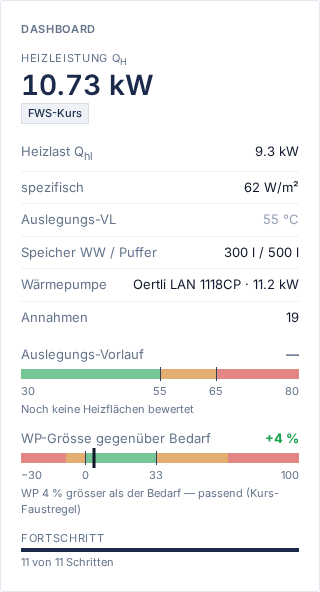
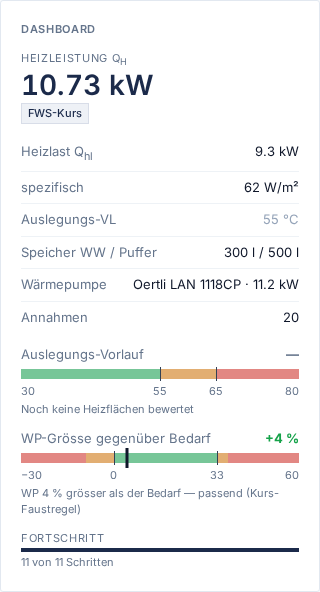
Heizlast Session 6: Fachentscheide θe ≤ −8 °C, WP-Skala gelb bis +37 %, Standard-VL je System
Claude-Session: https://claude.ai/code/session_01LwubnpfjYyW4yBhKztMVqy

diff --git a/heizlast/src/kern/berechne.ts b/heizlast/src/kern/berechne.ts
@@ -37,7 +37,7 @@ import { kategorieVon, waermeabgabe } from './waermeabgabe';
 import type { LeistungszuschlagErgebnis, WarmwasserEingabe, WarmwasserErgebnis } from './warmwasser';
 import { leistungszuschlagWarmwasser, warmwasserBedarf } from './warmwasser';
 import type { Hinweis, Wert } from './wert';
-import { berechnet, fallback, fmt, istAnnahme } from './wert';
+import { berechnet, fallback, fmt, istAnnahme, tabelle } from './wert';
 import type { SperrzeitErgebnis } from './zuschlaege';
 import { auslegungsleistung, sperrzeitZuschlag, zusatzleistung } from './zuschlaege';
 
@@ -83,6 +83,8 @@ export interface Gegenprobe {
 export interface Ergebnis {
   methode: State['methode'];
   klima: KlimaErgebnis | null;
+  /** Massgebende Auslegungs-Aussentemperatur (SIA 2028 mit Höhenkorrektur bzw. Eingabe, Thermowerk-Regel ≤ −8 °C). */
+  thetaE: Wert | null;
   /** Energiebezugsfläche (manuell oder aus Räumen) — eine Quelle für beide Modi. */
   ebf: Wert | null;
   heizlast: {
@@ -243,7 +245,20 @@ function fwsRechnen(s: State, daten: Datensatz, klima: KlimaErgebnis | null, ebf
   return { fws: e ? heizlastFws(e, daten.fws) : null, wwBisher, fehlend };
 }
 
-function raumweiseRechnen(s: State, daten: Datensatz, klima: KlimaErgebnis | null, hinweise: Hinweis[]): { huelle: HuelleErgebnis | null; raumweise: RaumweiseErgebnis | null; fehlend: Omit<Fehlend, 'schritt'>[] } {
+/**
+ * Auslegungs-Aussentemperatur mit Thermowerk-Regel (Fachentscheid Daniel 29.10.): nie wärmer als
+ * klimastationen.json `auslegungsregel.thetaEMaxC` (−8 °C). Kältere Stations-/Eingabewerte bleiben.
+ */
+export function thetaEAuslegung(klima: KlimaErgebnis | null, daten: Datensatz): { thetaE: Wert | null; hinweise: Hinweis[] } {
+  const t = klima?.thetaE ?? null;
+  if (!t) return { thetaE: null, hinweise: [] };
+  const max = daten.klima.auslegungsregel.thetaEMaxC;
+  if (t.wert <= max) return { thetaE: t, hinweise: [] };
+  const thetaE = tabelle(max, '°C', `Auslegung ${fmt(max, 0)} °C statt ${fmt(t.wert, 0)} °C (${t.begruendung}) — Thermowerk-Regel: θe nie wärmer als ${fmt(max, 0)} °C`, 'Fachentscheid Thermowerk (Daniel 29.10.2026), klimastationen.json auslegungsregel', { stufe: 'thermowerkRegel' });
+  return { thetaE, hinweise: [{ stufe: 'info', code: 'klima.thermowerkRegel', text: `Auslegungs-Aussentemperatur ${fmt(t.wert, 0)} °C ist wärmer als die Thermowerk-Regel — gerechnet wird mit ${fmt(max, 0)} °C.`, pfad: 'gebaeude.standort' }] };
+}
+
+function raumweiseRechnen(s: State, daten: Datensatz, klima: KlimaErgebnis | null, thetaE: Wert | null, hinweise: Hinweis[]): { huelle: HuelleErgebnis | null; raumweise: RaumweiseErgebnis | null; fehlend: Omit<Fehlend, 'schritt'>[] } {
   const fehlend: Omit<Fehlend, 'schritt'>[] = [];
   const g = s.gebaeude;
   if (g.baujahr === undefined) return { huelle: null, raumweise: null, fehlend };
@@ -251,11 +266,11 @@ function raumweiseRechnen(s: State, daten: Datensatz, klima: KlimaErgebnis | nul
   const bauteiltypen: Bauteiltyp[] = s.huelle.bauteiltypen.map((t) => def<Bauteiltyp>({ ...t, sanierung: sanierungFuerTyp(t, s.sanierungen, zustand, daten, hinweise) }));
   const huelle = huelleAufloesen({ baujahr: g.baujahr, bauteiltypen, zustand }, daten.huelle);
   if (!s.raeume.length) fehlend.push({ pfad: 'raeume', text: 'Keine Räume erfasst' });
-  if (!klima?.thetaE) return { huelle, raumweise: null, fehlend };
+  if (!thetaE) return { huelle, raumweise: null, fehlend };
   const h = s.huelle;
   const e = def<RaumweiseEingabe>({
-    thetaE: klima.thetaE,
-    thetaMittelJahr: klima.thetaMittelJahr ?? undefined,
+    thetaE,
+    thetaMittelJahr: klima?.thetaMittelJahr ?? undefined,
     huelle,
     baujahr: g.baujahr,
     gebaeudetyp: g.typ ?? undefined,
@@ -325,6 +340,10 @@ export function berechne(s: State, daten: Datensatz): Ergebnis {
     hinweis('gebaeude', klima.hinweise);
     annahme('gebaeude', klima.annahmen);
   }
+  const te = thetaEAuslegung(klima, daten);
+  const thetaE = te.thetaE;
+  hinweis('gebaeude', te.hinweise);
+  annahme('gebaeude', [thetaE]);
   const ebfR = ebfBestimmen({ modus: g.ebfModus, manuellM2: g.ebfModus === 'manuell' ? g.ebfManuellM2 : undefined }, summeRaumflaechen(s), daten.fws);
   const ebf = ebfR.ebf;
   hinweis('gebaeude', ebfR.hinweise.map((x) => ({ ...x, pfad: 'gebaeude.ebfManuellM2' })));
@@ -362,12 +381,12 @@ export function berechne(s: State, daten: Datensatz): Ergebnis {
     }
     // Gegenprobe raumweise nur mit echten Raum-Bauteilen
     if (fws?.qhl && s.raeume.some((x) => x.bauteile.length > 0)) {
-      const rw = raumweiseRechnen(s, daten, klima, []);
+      const rw = raumweiseRechnen(s, daten, klima, thetaE, []);
       if (rw.raumweise?.vollstaendig) gegenprobe = { methode: 'raumweise', wert: rw.raumweise.gebaeude, vergleich: vergleichNormVerbrauch(rw.raumweise.gebaeude, fws.qhl, daten.fws) };
     }
   } else if (s.methode === 'raumweise') {
     const hh: Hinweis[] = [];
-    const r = raumweiseRechnen(s, daten, klima, hh);
+    const r = raumweiseRechnen(s, daten, klima, thetaE, hh);
     hinweis('sanierungen', hh);
     huelle = r.huelle;
     raumweise = r.raumweise;
@@ -382,7 +401,7 @@ export function berechne(s: State, daten: Datensatz): Ergebnis {
       annahme('huelle', raumweise.annahmen.filter((a) => a !== raumweise?.thetaE && a !== raumweise?.ebf));
       if (raumweise.raeume.length) massgebend = { wert: raumweise.gebaeude, quelle: 'raumweise', art: 'raumweise', status: raumweise.vollstaendig ? 'raumweise' : 'fehlt', label: raumweise.methode };
       else massgebend = { wert: null, quelle: 'raumweise', art: 'raumweise', status: 'fehlt', label: raumweise.methode };
-    } else if (huelle && !klima?.thetaE) fehlt('huelle', 'gebaeude.standort', 'Für θe fehlt der Standort');
+    } else if (huelle && !thetaE) fehlt('huelle', 'gebaeude.standort', 'Für θe fehlt der Standort');
     // Gegenprobe FWS nur mit echten Verbrauchsrechnungen
     if (raumweise?.vollstaendig && raumweise.raeume.length && s.verbrauch.quelle === 'rechnungen' && s.verbrauch.eintraege.length) {
       const fr = fwsRechnen(s, daten, klima, ebf, heute, s.verbrauch.wwBisher === true);
@@ -473,9 +492,12 @@ export function berechne(s: State, daten: Datensatz): Ergebnis {
     hinweis('waermeabgabe', wab.hinweise); // enthält bereits die Raum- und Heizflächen-Hinweise
     annahme('waermeabgabe', wab.annahmen);
   }
+  const sys = wa.system;
+  const SYSTEM_TEXT = { fbh: 'Fussbodenheizung', radiatoren: 'Radiatoren', gemischt: 'Radiatoren und Fussbodenheizung' } as const;
+  const vlStandard = sys ? daten.hk.auslegung.standardVLJeSystemC[sys] : daten.hk.auslegung.zielVLDefaultC;
   const auslegungsVL: Wert =
     wab?.gebaeude.auslegungsVL ??
-    fallback(daten.hk.auslegung.zielVLDefaultC, '°C', `Keine Heizflächen bewertet — Auslegungs-VL ${fmt(daten.hk.auslegung.zielVLDefaultC, 0)} °C als Standardwert (Grenze «gut» der WP-Tauglichkeit), bis Heizflächen erfasst sind`, { stufe: 'standardwert', quelle: 'heizkoerper-tabellen.json auslegung.zielVLDefaultC (Thermowerk-Annahme)' });
+    fallback(vlStandard, '°C', sys ? `Keine Heizflächen bewertet — Auslegungs-VL ${fmt(vlStandard, 0)} °C für ${SYSTEM_TEXT[sys]} (Standardwert, überschreibbar)` : `Keine Heizflächen bewertet, System nicht gewählt — Auslegungs-VL ${fmt(vlStandard, 0)} °C als Standardwert (Grenze «gut» der WP-Tauglichkeit)`, { stufe: 'standardwert', quelle: 'heizkoerper-tabellen.json auslegung.standardVLJeSystemC (Fachentscheid Daniel 29.10.)' });
   annahme('waermeabgabe', [auslegungsVL]);
 
   // Schritt 9: Gerät
@@ -505,9 +527,9 @@ export function berechne(s: State, daten: Datensatz): Ergebnis {
     const a = heizflaechenArt(kats);
     pufferHeizflaechen = a.puffer;
     magArt = a.mag;
-  } else if (sp.heizflaechen) {
-    pufferHeizflaechen = sp.heizflaechen;
-    magArt = sp.heizflaechen === 'fbh' ? 'fbh' : sp.heizflaechen === 'heizkoerper' ? 'radiatoren' : 'gemischt';
+  } else if (sys) {
+    pufferHeizflaechen = sys === 'radiatoren' ? 'heizkoerper' : sys;
+    magArt = sys;
   } else {
     pufferHeizflaechen = 'heizkoerper';
     annahme('speicher', [fallback<string>('heizkoerper', '', 'Heizflächenart für Puffer-Kriterium: Heizkörper (Standardwert, keine Heizflächen erfasst)', { stufe: 'standardwert' })]);
@@ -575,6 +597,7 @@ export function berechne(s: State, daten: Datensatz): Ergebnis {
   return {
     methode: s.methode,
     klima,
+    thetaE,
     ebf,
     heizlast: { massgebend, fws, raumweise, huelle, gegenprobe, spezifisch: spezHeizlast },
     plausi: { spezifisch },

diff --git a/heizlast/tests/state/berechne.test.ts b/heizlast/tests/state/berechne.test.ts
@@ -4,8 +4,12 @@
  * Sollwerte extern (keine Zirkelschlüsse, Befund FACH-60):
  *  - FWS: Referenzhaus Moosseedorf (referenz/BEISPIELRECHNUNG.md) mit Handrechnung additiver WW-Verluste wie in
  *    tests/kern/fws.test.ts: Q_hl 9 304.7 W, Q_w 581.0 W, Q_off 845.9 W, Q_h 10 731.6 W (Befund A1 Ho: 9 276 / 10 708).
- *  - raumweise: eigenes CH-EFH von Hand (tests/kern/raumweise.test.ts): Wohnen 2 098.6 W, Bad 570.3 W,
- *    Flur 64.8 W, saldiert 2 678.7 W, EBF 38.5 m².
+ *  - raumweise: eigenes CH-EFH von Hand (tests/kern/raumweise.test.ts, dort bei θe −7 °C). Die Fixture gibt −7 °C ein;
+ *    die Thermowerk-Regel (θe nie wärmer als −8 °C, Fachentscheid Daniel 29.10.) rechnet mit −8 °C. Handrechnung bei −8 °C
+ *    (alle Hüll- und Lüftungsterme ∝ θint − θe, Innenbauteile gegen 20 °C konstant):
+ *      Wohnen 67.1 · 28 + 62.5 · 0.5 · 0.34 · 28 = 1 878.8 + 297.5 = 2 176.3 W
+ *      Bad Hülle 14.2 · 30 + 15 · 0.7 · 0.34 · 30 = 426.0 + 107.1 = 533.1 W; innen 1.896 · 29 = 55.0 W → 588.1 W
+ *      Flur 0.6 · 4 · 28 = 67.2 W; saldiert 2 176.3 + 533.1 + 67.2 = 2 776.6 W; EBF 38.5 m².
  *  - Wärmeabgabe: Typ 22 600 × 1000 @ 55/45/20 = 842–873 W je Heizkörper (Purmo/Kermi/KB-E, Befund B1).
  * Zusätzlich ein Snapshot je Modus (Struktur, Status, Hinweis-Codes) gegen unbeabsichtigte Änderungen.
  */
@@ -88,16 +92,23 @@ describe('berechne — raumweise (CH-EFH von Hand)', () => {
   const e = berechne(s, daten);
   const rw = e.heizlast.raumweise!;
 
-  it('Räume und Gebäude wie Handrechnung (±0.5 %), massgebend = saldiert', () => {
+  it('Thermowerk-Regel: Eingabe −7 °C → Auslegung −8 °C (sichtbar als Annahme mit Hinweis)', () => {
+    expect(e.klima!.thetaE).toMatchObject({ wert: -7, herkunft: 'override' });
+    expect(e.thetaE).toMatchObject({ wert: -8, herkunft: 'tabelle', stufe: 'thermowerkRegel' });
+    expect(rw.thetaE).toBe(e.thetaE);
+    expect(e.hinweise.some((h) => h.code === 'klima.thermowerkRegel')).toBe(true);
+    expect(e.annahmen.some((a) => a.wert === e.thetaE && a.schritt === 'gebaeude')).toBe(true);
+  });
+
+  it('Räume und Gebäude wie Handrechnung bei −8 °C (±0.5 %), massgebend = saldiert', () => {
     const [w, b, f] = rw.raeume;
-    erwarteNahe(w!.phiHL.wert, 2098.6, 0.5, 'Wohnen');
-    erwarteNahe(b!.phiHL.wert, 570.3, 0.5, 'Bad');
-    erwarteNahe(f!.phiHL.wert, 64.8, 0.5, 'Flur');
-    erwarteNahe(e.heizlast.massgebend.wert!.wert, 2678.7, 0.5, 'saldiert');
+    erwarteNahe(w!.phiHL.wert, 2176.3, 0.5, 'Wohnen');
+    erwarteNahe(b!.phiHL.wert, 588.1, 0.5, 'Bad');
+    erwarteNahe(f!.phiHL.wert, 67.2, 0.5, 'Flur');
+    erwarteNahe(e.heizlast.massgebend.wert!.wert, 2776.6, 0.5, 'saldiert');
     expect(e.heizlast.massgebend).toMatchObject({ quelle: 'raumweise', status: 'raumweise' });
     expect(e.heizlast.massgebend.label).toContain('SIA 384/2:2020');
     expect(e.ebf!.wert).toBeCloseTo(38.5, 6);
-    expect(e.klima!.thetaE).toMatchObject({ wert: -7, herkunft: 'override' });
   });
 
   it('Wärmeabgabe: 2 × Typ 22 600×1000 bei 55/45 = 2 × (842–873) W; Deckung < 1 → θ_VL,req > 55 °C wird DIE Auslegungs-VL', () => {
@@ -214,6 +225,25 @@ describe('berechne — Fälle und Leitplanken', () => {
     expect(nachher.fe!.u.wert).toBeLessThan(vorher.fe!.u.wert);
     expect(nachher.fe!.sanierungWirkt).toBe(true);
     expect(nachher.aw!.u.wert).toBe(vorher.aw!.u.wert);
+  });
+
+  it('Thermowerk-Regel greift nur, wenn θe wärmer als −8 °C ist; −12 °C bleibt', () => {
+    const s = setzeImState(fixture('state-v2-raumweise-efh.json'), 'gebaeude.standort.thetaEOverrideC', -12);
+    const e = berechne(s, daten);
+    expect(e.thetaE).toMatchObject({ wert: -12, herkunft: 'override' });
+    expect(e.hinweise.some((h) => h.code === 'klima.thermowerkRegel')).toBe(false);
+  });
+
+  it('ohne Heizflächen: Standard-VL nach Wärmeabgabesystem (FBH 35 °C, Radiatoren 55 °C), Override gewinnt', () => {
+    const basis = fixture('state-v2-fws-moosseedorf.json');
+    expect(berechne(basis, daten).auslegungsVL.wert).toBe(55);
+    const fbh = berechne(setzeImState(basis, 'waermeabgabe.system', 'fbh'), daten);
+    expect(fbh.auslegungsVL).toMatchObject({ wert: 35, herkunft: 'fallback', stufe: 'standardwert' });
+    expect(fbh.auslegungsVL.begruendung).toContain('Fussbodenheizung');
+    expect(fbh.speicher.mag!.anlagenvolumen.begruendung).toContain('fbh');
+    expect(berechne(setzeImState(basis, 'waermeabgabe.system', 'radiatoren'), daten).auslegungsVL.wert).toBe(55);
+    const ov = berechne(setzeImState(setzeImState(basis, 'waermeabgabe.system', 'fbh'), 'waermeabgabe.auslegungsVLOverrideC', 40), daten);
+    expect(ov.auslegungsVL).toMatchObject({ wert: 40, herkunft: 'override' });
   });
 
   it('Heizflächen eines gelöschten Raums werden ignoriert und gemeldet', () => {

diff --git a/heizlast/src/state/schema.ts b/heizlast/src/state/schema.ts
@@ -157,6 +157,8 @@ export interface WaermeabgabeRaumState {
 
 export interface WaermeabgabeState {
   heizkreise: HeizkreisEingabe[];
+  /** Wärmeabgabesystem, solange keine Heizflächen erfasst sind: bestimmt Standard-Vorlauf (FBH 35 / Radiatoren 55 °C), Puffer- und MAG-Kriterium. */
+  system?: 'fbh' | 'radiatoren' | 'gemischt';
   /** Heizflächen je Raum (Schlüssel = Raum-id aus `raeume`). */
   raeume: Record<string, WaermeabgabeRaumState>;
   zielVLC?: number;
@@ -179,8 +181,6 @@ export interface SpeicherState {
     aktiv: boolean | null;
     einzelraumregelung: boolean | null;
     sperrzeitUeberbrueckung: boolean;
-    /** Nur ohne erfasste Heizflächen; sonst aus den Heizflächen abgeleitet. */
-    heizflaechen?: 'fbh' | 'heizkoerper' | 'gemischt';
     volumenOverrideLiter?: number;
   };
   mag: { anlagenvolumenLiter?: number; p0Bar?: number; pSvBar?: number };
@@ -584,7 +584,7 @@ export function normalisiereState(raw: unknown, o: { id: string; jetzt: string }
   const waermeabgabe: WaermeabgabeState = {
     heizkreise: liste(wa.heizkreise, 'waermeabgabe.heizkreise', p, (x, q) => (mitId(x, q, p) ? (felder(x, { id: 'text', bezeichnung: 'text', tVLC: 'zahl', spreizungK: 'zahl', gemischt: 'bool' }, q, p) as unknown as HeizkreisEingabe) : null)),
     raeume: waRaeume,
-    ...felder(wa, { zielVLC: 'zahl', heizkurveAlt: objekt({ tVLC: 'zahl', tRLC: 'zahl' }), auslegungsVLOverrideC: 'zahl' }, 'waermeabgabe', p),
+    ...felder(wa, { system: ['fbh', 'radiatoren', 'gemischt'], zielVLC: 'zahl', heizkurveAlt: objekt({ tVLC: 'zahl', tRLC: 'zahl' }), auslegungsVLOverrideC: 'zahl' }, 'waermeabgabe', p),
   } as WaermeabgabeState;
 
   const z = istObjekt(r.zuschlaege) ? r.zuschlaege : {};
@@ -601,7 +601,7 @@ export function normalisiereState(raw: unknown, o: { id: string; jetzt: string }
   const speicher: SpeicherState = {
     ww: felder(s.ww, { volumenOverrideLiter: 'zahl' }, 'speicher.ww', p),
     puffer: {
-      ...felder(pu, { heizflaechen: ['fbh', 'heizkoerper', 'gemischt'], volumenOverrideLiter: 'zahl' }, 'speicher.puffer', p),
+      ...felder(pu, { volumenOverrideLiter: 'zahl' }, 'speicher.puffer', p),
       aktiv: nullbarBool(pu.aktiv, 'speicher.puffer.aktiv', p),
       einzelraumregelung: nullbarBool(pu.einzelraumregelung, 'speicher.puffer.einzelraumregelung', p),
       sperrzeitUeberbrueckung: pu.sperrzeitUeberbrueckung === true,

diff --git a/heizlast/tests/kern/geraet.test.ts b/heizlast/tests/kern/geraet.test.ts
@@ -14,10 +14,11 @@ const fws = fwsDaten();
 const wp = waermepumpenDaten();
 
 describe('Dimensionierung r = Q_h / Q_WP', () => {
-  it('Kurs-Faustregel: r ≥ 0.75 und WP deckt Q_h → grün; WP 34 % zu gross → nicht grün', () => {
+  it('Kurs-Faustregel: r ≥ 0.75 und WP deckt Q_h → grün; WP 35 % zu gross → gelb, 40 % → rot', () => {
     expect(dimensionierung(7500, 10000, fws).ampel).toBe('gruen');
     expect(dimensionierung(10000, 10000, fws).ampel).toBe('gruen');
     expect(dimensionierung(7400, 10000, fws).ampel).toBe('gelb');
+    expect(dimensionierung(7150, 10000, fws).ampel).toBe('rot');
     expect(dimensionierung(5900, 10000, fws).ampel).toBe('rot');
   });
   it('Aufgabe 4 (Q_h 9.0 kW, Q_WP 12 kW): r = 0.75 — Grenzfall der Faustregel, Text nennt die Übergrösse', () => {
@@ -87,7 +88,7 @@ describe('Gerätefilter', () => {
 });
 
 describe('Prozent-Skala WP-Grösse (Wunsch Daniel 29.10.)', () => {
-  it('Bereiche aus der Kursregel: grün 0 … +33 %, gelb −9 … 0 und +33 … +67 %, sonst rot; Grenzen zum milderen Bereich', () => {
+  it('Bereiche: grün 0 … +33 % (Kurs), gelb −9 … 0 und +33 … +37 % (Fachentscheid Daniel), sonst rot; Grenzen zum milderen Bereich', () => {
     const s = skalaWpGroesse(fws, null);
     expect(s.wert).toBeNull();
     expect(s.ampel).toBe('grau');
@@ -98,8 +99,10 @@ describe('Prozent-Skala WP-Grösse (Wunsch Daniel 29.10.)', () => {
     expect(ampelAufSkala(s.bereiche, 100 / 3)).toBe('gruen');
     expect(ampelAufSkala(s.bereiche, (1 / 1.1 - 1) * 100)).toBe('gelb');
     expect(ampelAufSkala(s.bereiche, -15)).toBe('rot');
-    expect(ampelAufSkala(s.bereiche, 50)).toBe('gelb');
-    expect(ampelAufSkala(s.bereiche, 80)).toBe('rot');
+    expect(ampelAufSkala(s.bereiche, 35)).toBe('gelb');
+    expect(ampelAufSkala(s.bereiche, 37)).toBe('gelb');
+    expect(ampelAufSkala(s.bereiche, 38)).toBe('rot');
+    expect(ampelAufSkala(s.bereiche, 50)).toBe('rot');
   });
   it('Beispiel Leistungsstufen: Bedarf 11 kW → 12-kW-Gerät +9 % grün, 10-kW-Gerät −9 % gelb (knapp)', () => {
     const gross = dimensionierung(11000, 12000, fws);

diff --git a/heizlast/tests/daten/fws.test.ts b/heizlast/tests/daten/fws.test.ts
@@ -18,7 +18,7 @@ type Fws = {
   };
   speicherWarmwasser: { fSto: { wert: number; default?: boolean }[]; tKaltwasserC: number; spitzendeckung: { anteilVwuMax: number } };
   bivalenz: { tabelle: { leistungsanteilWP: number; energieanteilWP: Band }[] };
-  geraetewahl: { inverterMinVerhaeltnis: number; ueberdimensioniertRotUnter: number; knappGelbBis: number; filterToleranzUntenProzent: number; quelle: string[]; fundstelle: string };
+  geraetewahl: { inverterMinVerhaeltnis: number; rotAbUebergroesseProzent: number; knappGelbBis: number; filterToleranzUntenProzent: number; quelle: string[]; fundstelle: string };
 };
 
 const fws = ladeJson<Fws>('fws.json');
@@ -186,11 +186,12 @@ describe('fws.json — Gerätewahl (Folie 3, Session 6)', () => {
   it('Kurs-Faustregel Q_h ≥ 0.75 · Q_WP; Thermowerk-Bänder geordnet und als Annahme gekennzeichnet', () => {
     const g = fws.geraetewahl;
     expect(g.inverterMinVerhaeltnis).toBe(0.75);
-    expect(g.ueberdimensioniertRotUnter).toBeLessThan(g.inverterMinVerhaeltnis);
+    expect(g.rotAbUebergroesseProzent).toBe(37); // Fachentscheid Daniel 29.10.
+    expect(g.rotAbUebergroesseProzent).toBeGreaterThan((1 / g.inverterMinVerhaeltnis - 1) * 100);
     expect(g.knappGelbBis).toBeGreaterThan(1);
     expect(g.filterToleranzUntenProzent).toBeGreaterThan(0);
     expect(g.filterToleranzUntenProzent).toBeLessThan(25);
-    expect(g.quelle).toEqual(expect.arrayContaining(['fws-m3', 'tw-annahme']));
+    expect(g.quelle).toEqual(expect.arrayContaining(['fws-m3', 'tw-annahme', 'tw-entscheid']));
     expect(g.fundstelle).toContain('Folie 3');
   });
 });

diff --git a/heizlast/tests/state/relevanz.test.ts b/heizlast/tests/state/relevanz.test.ts
@@ -67,7 +67,7 @@ const FAELLE: ReadonlyArray<[string, State, string, boolean]> = [
   ['Sperrzeit nein: Puffer-Überbrückung nicht', setze(fws, { 'zuschlaege.sperrzeitAktiv': false }), 'speicher.puffer.sperrzeitUeberbrueckung', false],
   ['Puffer abgewählt: Override nicht relevant', setze(fws, { 'speicher.puffer.aktiv': false }), 'speicher.puffer.volumenOverrideLiter', false],
   // HK vorhanden
-  ['ohne Heizflächen: Puffer-Heizflächenart relevant', fws, 'speicher.puffer.heizflaechen', true],
+  ['ohne Heizflächen: Wärmeabgabesystem relevant', fws, 'waermeabgabe.system', true],
   ['ohne Heizflächen: Ziel-VL/alte Heizkurve nicht relevant', fws, 'waermeabgabe.heizkurveAlt', false],
 ];
 
@@ -76,10 +76,10 @@ describe('relevant(pfad, state) — Relevanz-Tabelle', () => {
     expect(relevant(pfad, s)).toBe(erwartet);
   });
 
-  it('mit Heizflächen: Heizflächenart abgeleitet (nicht relevant), Ziel-VL relevant; Masse je Bauart', () => {
+  it('mit Heizflächen: Wärmeabgabesystem abgeleitet (nicht relevant), Ziel-VL relevant; Masse je Bauart', () => {
     const s = fixture('state-v2-raumweise-efh.json');
     const hk = { hk: heizkoerperDaten() };
-    expect(relevant('speicher.puffer.heizflaechen', s)).toBe(false);
+    expect(relevant('waermeabgabe.system', s)).toBe(false);
     expect(relevant('waermeabgabe.zielVLC', s)).toBe(true);
     expect(relevant('waermeabgabe.raeume.wohnen.heizflaechen.hf1.hoeheMm', s, hk)).toBe(true);
     expect(relevant('waermeabgabe.raeume.wohnen.heizflaechen.hf1.glieder', s, hk)).toBe(false);

diff --git a/heizlast/src/kern/relevanz.ts b/heizlast/src/kern/relevanz.ts
@@ -94,6 +94,7 @@ export const RELEVANZ_REGELN: ReadonlyArray<RelevanzRegel> = [
   // Schritt 6 Wärmeabgabe
   { muster: 'waermeabgabe.raeume.*', wenn: 'Raum existiert', pruefe: (s, [id]) => raumVorhanden(s, id) },
   { muster: 'waermeabgabe.raeume.*.phiHLManuellW', wenn: 'FWS (keine raumweise Heizlast)', pruefe: fws },
+  { muster: 'waermeabgabe.system', wenn: 'keine Heizflächen erfasst (sonst aus den Heizflächen abgeleitet)', pruefe: (s) => !heizflaechenVorhanden(s) },
   { muster: 'waermeabgabe.zielVLC', wenn: 'Heizflächen erfasst', pruefe: heizflaechenVorhanden },
   { muster: 'waermeabgabe.heizkurveAlt', wenn: 'Heizflächen erfasst', pruefe: heizflaechenVorhanden },
   // Schritt 7 Zuschläge
@@ -105,7 +106,6 @@ export const RELEVANZ_REGELN: ReadonlyArray<RelevanzRegel> = [
   { muster: 'speicher.puffer.sperrzeitUeberbrueckung', wenn: 'Puffer nicht abgewählt und Sperrzeit vorhanden', pruefe: (s) => s.speicher.puffer.aktiv !== false && s.zuschlaege.sperrzeitAktiv === true },
   // Schritt 9 Wärmepumpe
   { muster: 'geraet.qWpAuslegungW', wenn: 'Gerät gewählt', pruefe: (s) => s.geraet.auswahlId !== null },
-  { muster: 'speicher.puffer.heizflaechen', wenn: 'keine Heizflächen erfasst (sonst abgeleitet)', pruefe: (s) => s.speicher.puffer.aktiv !== false && !heizflaechenVorhanden(s) },
 ];
 
 function passt(muster: string[], pfad: string[]): string[] | null {

diff --git a/heizlast/src/kern/skala.ts b/heizlast/src/kern/skala.ts
@@ -40,13 +40,13 @@ export function ampelAufSkala(bereiche: ReadonlyArray<SkalaBereich>, wert: numbe
 /**
  * WP-Grösse gegenüber dem Bedarf: Übergrösse = (Q_WP / Q_h − 1) · 100 [%].
  * Grenzen aus fws.json `geraetewahl` (r = Q_h/Q_WP): grün 0 … +33 % (Kurs: Q_h ≥ 0.75 · Q_WP),
- * gelb −9 … 0 % (knapp, Elektroeinsatz deckt die Spitze) und +33 … +67 %, sonst rot.
+ * gelb −9 … 0 % (knapp, Elektroeinsatz deckt die Spitze) und +33 … +37 % (Fachentscheid Daniel), sonst rot.
  */
 export function skalaWpGroesse(fws: FwsDaten, uebergroesseProzent: number | null): Skala {
   const g = fws.geraetewahl;
   const knapp = (1 / g.knappGelbBis - 1) * 100;
   const gruenBis = (1 / g.inverterMinVerhaeltnis - 1) * 100;
-  const gelbBis = (1 / g.ueberdimensioniertRotUnter - 1) * 100;
+  const gelbBis = g.rotAbUebergroesseProzent;
   const bereiche: SkalaBereich[] = [
     { von: -100, bis: knapp, ampel: 'rot', label: 'zu klein — bivalenter Betrieb' },
     { von: knapp, bis: 0, ampel: 'gelb', label: 'knapp — Spitze über Elektroeinsatz' },
@@ -58,7 +58,7 @@ export function skalaWpGroesse(fws: FwsDaten, uebergroesseProzent: number | null
     titel: 'WP-Grösse gegenüber Bedarf',
     einheit: '%',
     min: -30,
-    max: 100,
+    max: 60,
     wert: uebergroesseProzent,
     ampel: ampelAufSkala(bereiche, uebergroesseProzent),
     bereiche,

diff --git a/heizlast/src/daten/fws.ts b/heizlast/src/daten/fws.ts
@@ -165,7 +165,7 @@ export interface FwsDaten {
   };
   bivalenz: { tabelle: { leistungsanteilWP: number; energieanteilWP: number[] }[]; fundstelle: string };
   /** Dimensionierungs-Ampel + Gerätefilter Wärmepumpe (Session 6). */
-  geraetewahl: { inverterMinVerhaeltnis: number; ueberdimensioniertRotUnter: number; knappGelbBis: number; filterToleranzUntenProzent: number; fundstelle: string; hinweise: string[] };
+  geraetewahl: { inverterMinVerhaeltnis: number; rotAbUebergroesseProzent: number; knappGelbBis: number; filterToleranzUntenProzent: number; fundstelle: string; hinweise: string[] };
   plausibilitaet: {
     normReserveProzent: number[];
     qhlNormMinusVerbrauchErwartungProzent: number[];

diff --git a/heizlast/tests/daten/session4.test.ts b/heizlast/tests/daten/session4.test.ts
@@ -61,7 +61,7 @@ describe('huelle-epochen.json 1.1.0 — jede Bauweise ist auflösbar (Epochen-De
 
 describe('klimastationen.json 1.1.0 — Jahresmittel-Regression', () => {
   it('θm,e ≈ 11.5 − 0.5 K/100 m reproduziert die 53 SIA-381/2-Stationen < 2000 m mit RMSE ≤ 1 K', () => {
-    expect(k._meta.version).toBe('1.1.0');
+    expect(Number(k._meta.version.split('.')[1])).toBeGreaterThanOrEqual(1); // ≥ 1.1.0 (Session 6: 1.2.0 auslegungsregel)
     const j = k.jahresmittel;
     const pts = k.vergleichSia381_2.stationen.filter((x) => x.hoeheM < 2000);
     expect(pts.length).toBeGreaterThanOrEqual(50);

diff --git a/heizlast/tests/state/persistenz.test.ts b/heizlast/tests/state/persistenz.test.ts
@@ -187,7 +187,7 @@ describe('«Neu» und «Laden» mit Rückfrage (UX-21, BUILD-10)', () => {
     expect(await v.laden('p-ch-efh')).toBe(true);
     expect(store.state.value.projekt.name).toBe('CH-EFH Bern 1965 (Handrechnung)');
     expect(v.status.value).toBe('gespeichert');
-    expect(store.ergebnis.value.heizlast.massgebend.wert!.wert).toBeCloseTo(2678.7, 0);
+    expect(store.ergebnis.value.heizlast.massgebend.wert!.wert).toBeCloseTo(2776.6, 0); // −8 °C (Thermowerk-Regel)
     v.stoppen();
   });
 

diff --git a/heizlast/src/daten/heizkoerper.ts b/heizlast/src/daten/heizkoerper.ts
@@ -113,6 +113,9 @@ export interface HkDaten {
     fbhDefault: { verlegeabstandMm: number; rlb: number; rlbBad: number };
     konvektorEinbauDefault: string;
     hinweis: string;
+    /** Auslegungs-VL ohne bewertete Heizflächen je Wärmeabgabesystem (Session 6, Fachentscheid Daniel). */
+    standardVLJeSystemC: { fbh: number; radiatoren: number; gemischt: number };
+    standardVLHinweis: string;
   };
   modelle: HkModell[];
 }
